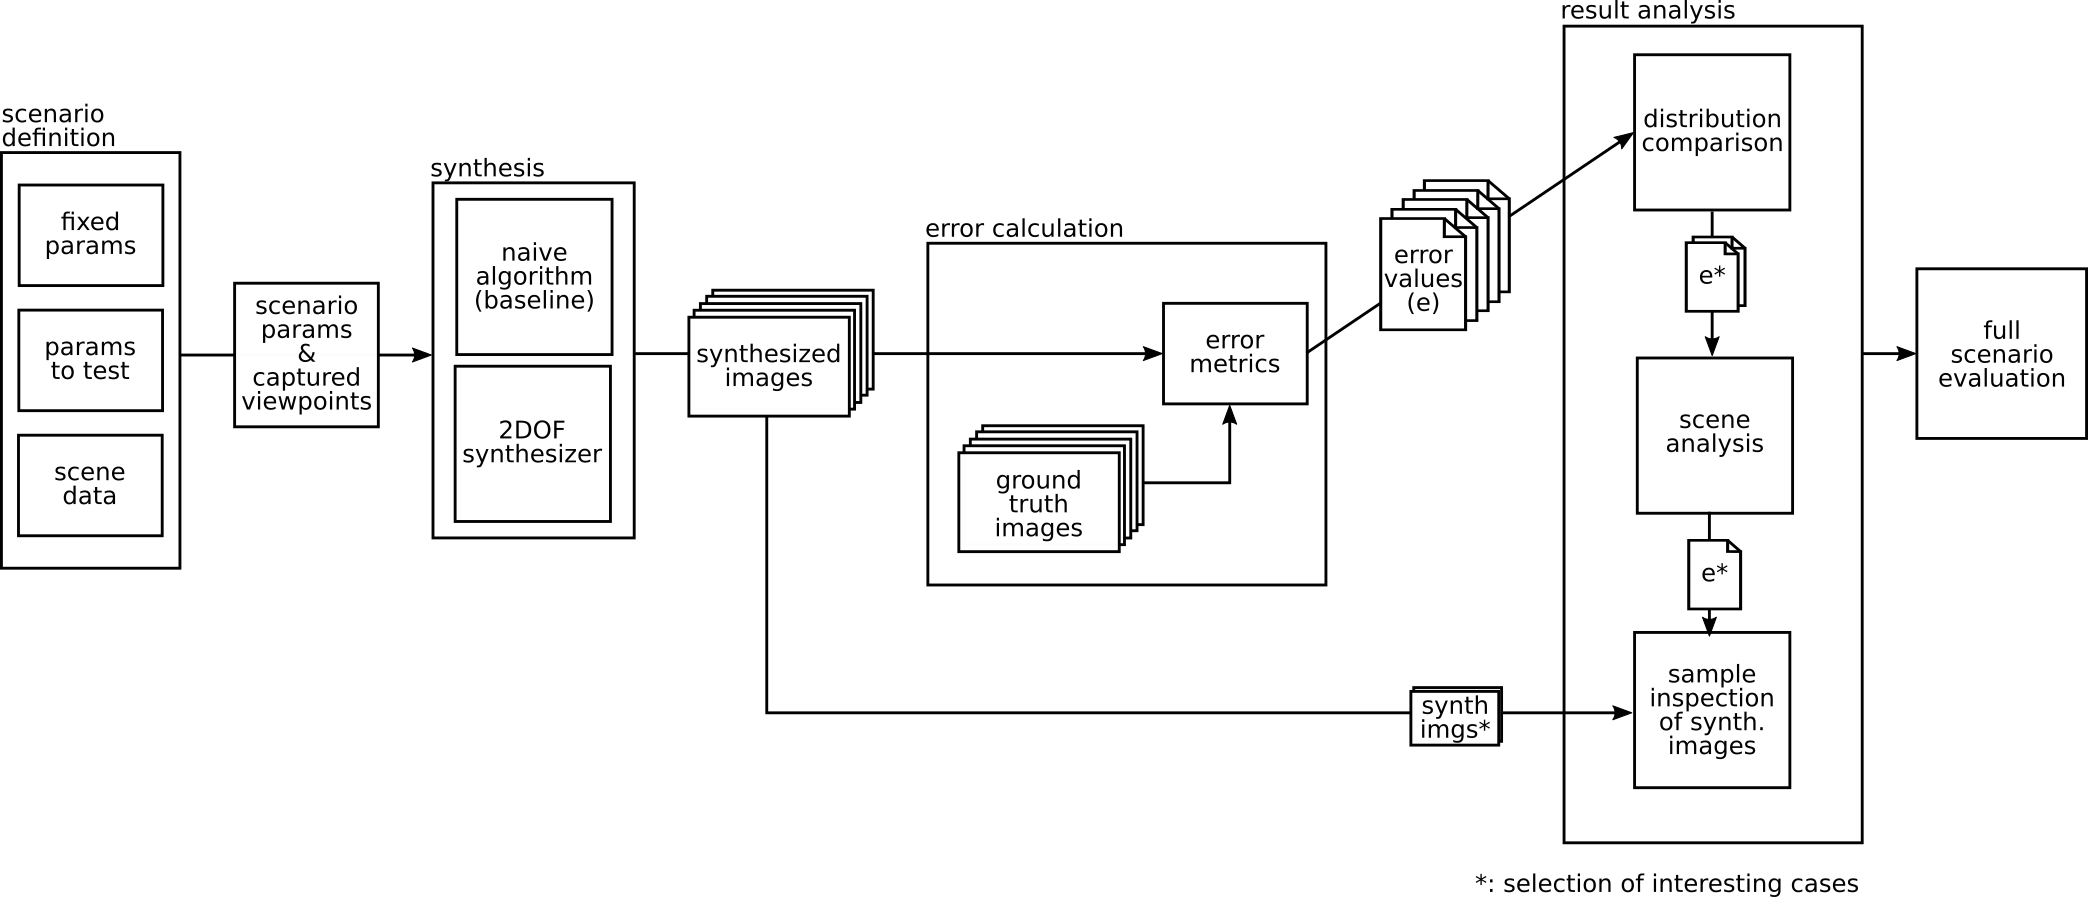
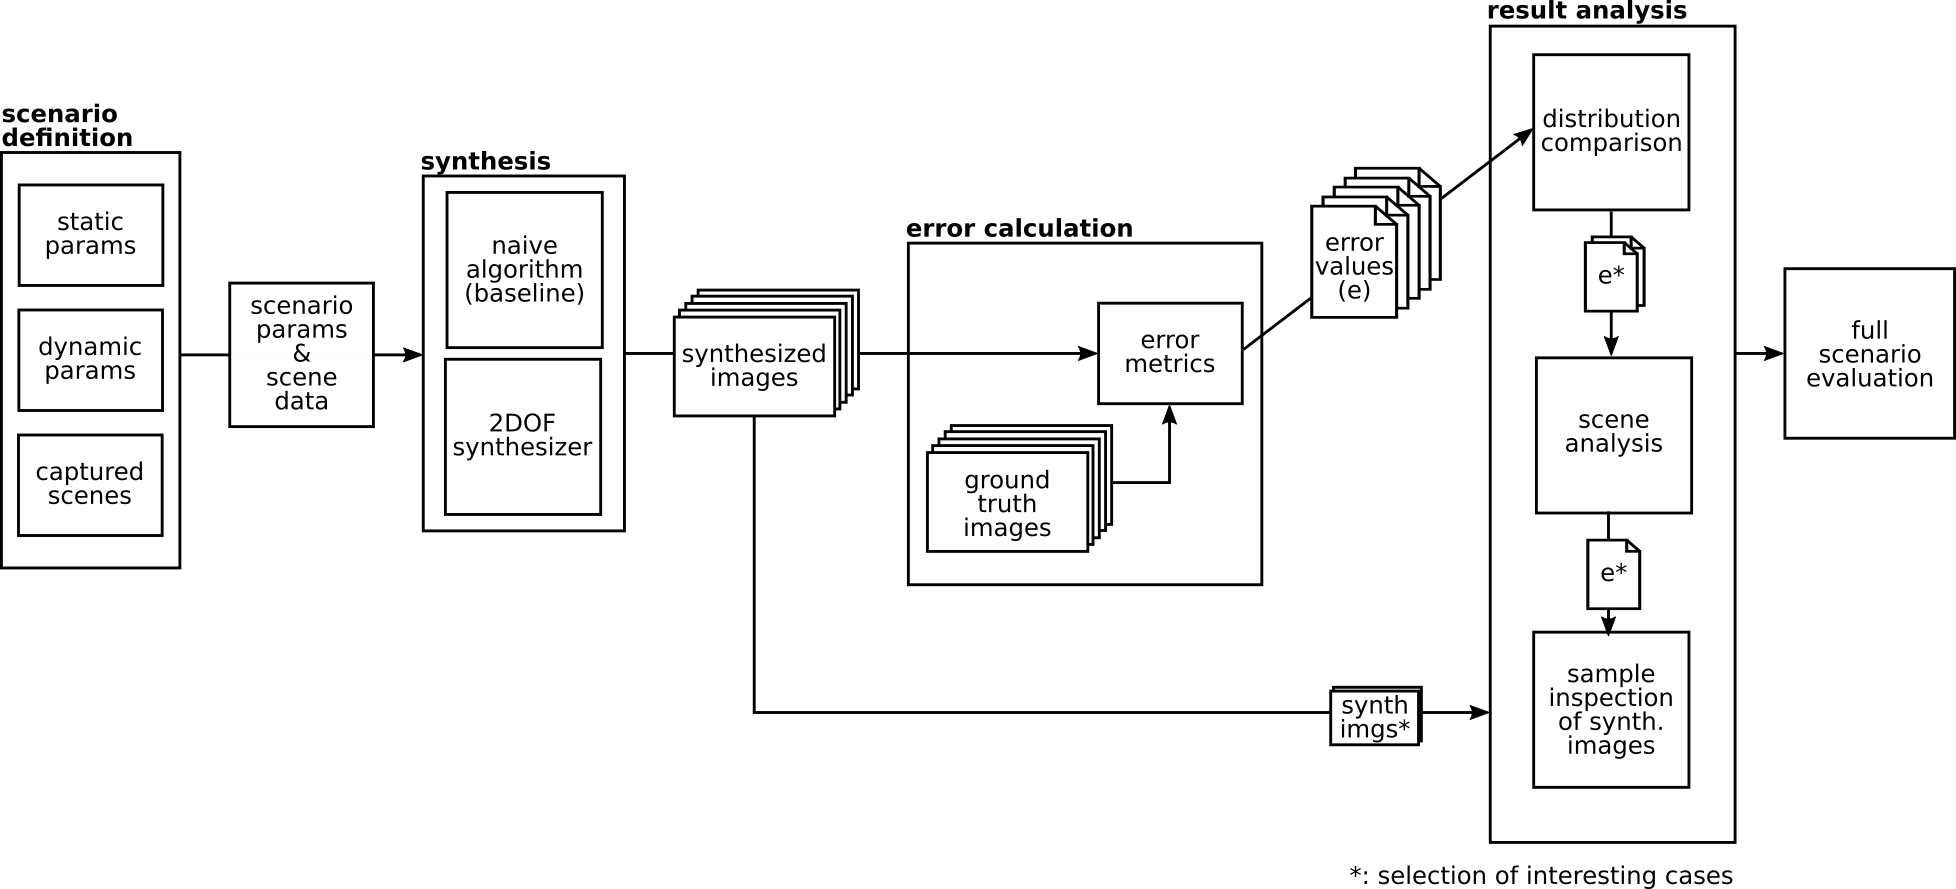
continue evaluation

Changed region(s): [[0.0, 0.0, 1.0, 1.0]]

diff --git a/04_evaluation.tex b/04_evaluation.tex
@@ -1,19 +1,14 @@
 \chapter{Evaluation and Results} \label{chap:evaluation}
 
+Unfortunately, there are no publicly available benchmarks for 360\degree image synthesis or image-based rendering for comparison with other methods. Instead, this chapter presents a basic evaluation of the algorithm presented in chapter~\ref{chap:implementation} that assesses the effects of different parameters by using mathematically calculable error metrics. Furthermore, it compares the results of regular blending, flow-based blending, and a naive baseline algorithm to analyze whether, and in which cases an improvement could be achieved.
 
-\begin{verbatim}
-- no publicly available benchmarks for 360\degree image synthesis / image based rendering available for comparison with other methods
-- scope: basic evaluation of mathematically measurable values (no human perception)
-- create virtual datasets to test the limits of the method
-- capture real datasets to perform a proof of concept
+First the evaluation methodology is presented, outlining how the effects of a parameter are measured and evaluated. Then, the limits of the algorithm are explored using virtual scenes. With the information gleaned from this limit evaluation, the parameters are chosen for a proof-of-concept evaluation using real scenes. The results and limitations are then discussed\ldots
 
-- these datasets could be used in the future to compare different algorithms
-- benchmark used will be nearest neighbor (naive algorithm)
-\end{verbatim}
+%- scope: basic evaluation of mathematically measurable values (no human perception)
+%- these datasets could be used in the future to compare different algorithms
 
 \section{Evaluation Methodology}
-In order to evaluate the effect of different parameters on the 2DoF synthesis algorithm developed in \ar scenarios, whether the
-The evaluation process of each scenario is divided into four phases: scenario definition, where the parameters to test in the scenario are selected, synthesis, where the synthesized images are calculated using the 2DoF synthesis presented in chapter~\ref{chap:implementation}, error calculation, where the accuracy of the synthesized images is measured, and result analysis, where the the cause and effect of the parameters is examined. 
+In order to evaluate the effect of different parameters on the 2DoF synthesis algorithm, it is necessary to define scenarios in which the evaluated parameter can be tested. The evaluation process of each scenario is divided into four phases: scenario definition, where the parameters to test in the scenario are selected, synthesis, where the synthesized images are calculated using the 2DoF synthesis presented in chapter~\ref{chap:implementation}, error calculation, where the accuracy of the synthesized images is measured, and result analysis, where the the cause and effect of the parameters is examined. The evaluation methodology is depicted in Figure~\ref{fig:eval-methodology}.
 
 \begin{figure}
 		\centering
@@ -31,7 +26,7 @@ The set of parameters (whether static or dynamic) contains the choice of scene i
 The synthesis step consists of two parts: the 2DoF synthesis presented in \ref{chap:implementation} using either flow-based blending or regular blending depending on the scenario parameters, and a baseline synthesis using a trivial algorithm. The results of the trivial algorithm serve as a baseline comparison to verify whether the developed 2DoF algorithm is an improvement to a naive approach. The trivial algorithm consists of simply selecting the nearest neighbor viewpoint based on euclidean distance. The input parameters are the same for both algorithms and both results are passed on to error calculation.
 
 \subsubsection{Error Calculation}
-In order to evaluate the synthesized images, it is necessary to define metrics with which to measure their accuracy. Since it is outside of the scope of this thesis to evaluate the quality of the results based on human perception, mathematical error metrics are used to compare each result to its ground truth image. Two different metrics are chosen based on different image features so that potential limitations of each metric can be compensated for by the other.
+In order to evaluate the synthesized images, it is necessary to define metrics with which to measure their accuracy. Since it is outside of the scope of this thesis to evaluate the quality of the results based on human perception, mathematical error metrics are used to compare each result to its ground truth image. Two different metrics are chosen based on different image features so that potential limitations of each metric can be compensated for by the other. However, it must be taken into account that neither are perfect for the task of measuring accuracy on 360\degree synthesized images, so their validity should always be taken with a grain of salt. 
 
 \paragraph{L1 error on RGB}
 The first metric is the L1 error calculated on the ground truth and result images in RGB color space. This is a simple error metric that calculates the mean absolute difference of the RGB values and therefore indicates the mean accuracy of each pixel of the image. The RGB errors of each pixel are added together for the complete image and then divided by the number of pixels in the image. This results in an error value $e \in [0,3]$, since the maximum error per pixel is 3 for floating point RGB color values $\in [0,1]$.
@@ -93,9 +88,38 @@ Based on the insights gained in the distribution comparison, several interesting
 \paragraph{Sample Inspection}
 In order to further understand the effects of the parameters on specific positions, some of the synthesised viewpoints from the scene analysis are examined manually by comparing the synthesized image to the ground truth image. The manual examination may also reveal information that the error metrics are unable to extract.
 
+\section{Parameters}
+Before defining the parameters to test in the limitation and proof-of-concept evaluations, this section gives an overview of possible parameters.
+The 2DoF approach already makes a number of assumptions (stated in section \ref{sec:approach} on page \pageref{sec:approach}), which are upheld in the evaluation. 
+
+There are two types of parameters that will be discussed: internal parameters (i.e. based within the algorithm), such as the blending type and the selection of input viewpoints, and external parameters (i.e. based on the properties of the captured scene), such as the viewpoint density, or the geometry of the scene. The internal parameters can be modified after capturing the scene, the external ones cannot. 
+
+The internal parameters based on the implementation from chapter~\ref{chap:implementation} are:
+\begin{itemize}
+  \item location of synthesized points in comparison to the scene
+  \item flow-based blending vs deviation-angle-based blending
+  \item selection of input viewpoints \ar two vs all within semi-large radius (all would be very computation intensive)
+  \item optical flow algorithm used for flow-based blending
+\end{itemize}
+
+There are more internal parameters that could theoretically be modified, such as the regular blending function (inverse sigmoid), or the method of approximation for 2DoF in flow-based blending, but these will be assumed as immutable for this evaluation, as this would be outside the scope of this thesis.
+
+As for the possible external parameters, the number of different possible scenes is infinite, but the assumed key parameters are:
+\begin{itemize}
+  \item type of scene (outdoor, indoor, etc) \ar size and shape of scene
+  \item objects within the scene
+  \item density of captured viewpoints (how many?)
+  \item distribution of captured viewpoints (where in the scene?)
+\end{itemize}
+limitations also here?
+limit to certain scenarios so that the explored space stays manageable
+
+optical flow:
+optical flow accuracy in relation to the scene size etc
+
 \section{Evaluation of Limits using Virtual Scenes}
 
-\subsection{Parameters}
+\subsection{Dynamic and Static Parameters}
 internal vs external parameters
 \begin{itemize}
   \item internal:
@@ -124,12 +148,13 @@ limitations also here?
 Checkersphere, square room, oblong room, (oblong room v2)
 
 \subsection{Synthesizing Ground Truth Optical Flow}
- only makes sense to compare if flow algorithm works more or less correctly \ar narrows the parameter space for comparison
-\begin{itemize}
-  \item optical flow ground truth is impossible to get from real scenes
-  \item however, virtual scenes contain all necessary information for retrieving ground truth for optical flow
-  \item virtual camera rig that captures one image per ``side'' with a fov that corresponds to that used in the ExtendedCubeMap \ar extended flow cube
-\end{itemize}
+As mentioned in section~\ref{subsec:optical_flow}, most optical flow algorithms struggle with large displacements. The flow-based blending algorithm used for the 2DoF synthesis, however, assumes perfect optical flow. As a result, there is no attempt to judge whether the optical flow calculation is feasible between two selected viewpoints, which means that given the wrong circumstances, the optical flow algorithm may fail, leading the flow-based blending to output undesirable results.
+
+However, the focus of this evaluation is the 2DoF synthesis algorithm and not the accuracy of an optical flow algorithm given different parameters. So, instead of calculating the optical flow on the virtually generated images, it is generated virtually along with the images. This ``ground truth'' optical flow was first presented by Butler et al.\ \cite{sintel} as a benchmark for optical flow algorithms but is used in this context to forego the optical flow calculation.
+
+%-optical flow ground truth is impossible to get from real scenes
+%-however, virtual scenes contain all necessary information for retrieving ground truth for optical flow
+%-virtual camera rig that captures one image per ``side'' with a fov that corresponds to that used in the ExtendedCubeMap \ar extended flow cube
 
 ``correctness'' of optical flow interpolation is limited even with ``perfect'' optical flow:
 \begin{itemize}

diff --git a/03_implementation.tex b/03_implementation.tex
@@ -6,7 +6,7 @@
 
 This chapter presents the assumptions and simplifications made for the pixel-based synthesis of 360\degree viewpoints, the basic approach and an improvement to the basic approach based on flow-based blending from Richardt et al.'s Megastereo \cite{megastereo}, and the implementation details of the method.
 
-\section{Approach}
+\section{Approach} \label{sec:approach}
 %\begin{itemize}
 %  \item most other approaches rely on either geometry or correspondences
 %  \item usually some form of triangulation
@@ -20,12 +20,12 @@ This chapter presents the assumptions and simplifications made for the pixel-bas
 \subsection{Assumptions and Simplifications}
 \todo{running text}
 \begin{itemize}
-  \item static scene
-  \item all images were captured on a plane parallel to the floor that is at that is at z=0 (viewpoint plane)
-  \item all synthesized viewpoints are located inside the scene boundaries and are also on the plane
-  \item all images are oriented the same
-  \item the positions of the captures are known
-  \item the scale (radius) of the scene is known
+  \item the scene is static
+  \item all images were captured on a plane parallel to the floor (viewpoint plane)
+  \item all synthesized viewpoints are located inside the scene boundaries and are also located on the viewpoint plane
+  \item the positions and orientations of the captures are known
+  \item the scale (max radius) of the scene is known
+  \item the optical flow gives a decent result for any distance
 \end{itemize}
 
 \subsection{Basic 2DoF Synthesis} \label{subsec:basic-synthesis}
@@ -114,7 +114,7 @@ In order to do this, several steps of raytracing are necessary, which are visual
 \subsubsection{Deviation-angle-based Mosaicking}
 The example in Figure~\ref{fig:raytracing} contains only one captured viewpoint, so the choice of which viewpoint to use for texture lookup is trivial. In cases where several viewpoints are available, a choice must be made as to which viewpoint should be used. In the case where the real scene has the same geometry as the model sphere, this is practically irrelevant, since the raytracing is always accurate. However, this is unrealistic, since the number of spherical rooms containing no objects is negligible. As a result, as soon as the real scene differs from the model sphere, some viewpoints yield better results than others. Figure~\ref{fig:dev_angle}a shows how a discrepancy between the real scene and the model sphere can lead to inaccurate results.
 
-When comparing rays from different viewpoints, two metrics can be examined: the euclidean distance of the captured viewpoint from the synthesized viewpoint, and the deviation angle between the rays. Figure~\ref{fig:dev_angle}b visualizes the two metrics and in the example, the $vp2$ with the smaller deviation angle is a better match. In fact, assuming that there is no obscuring element in the air such as fog, and disregarding diffusion and scattering over distance, the same light ray is captured by any viewpoint located on the ray in question. This means the closer the deviation angle is to zero, the more accurate the result will be, no matter the distance of the viewpoints. However, sampling rates and resolution also have an effect on the sampled point, so the euclidean distance cannot be completely ignored.
+When comparing rays from different viewpoints, two metrics can be examined: the euclidean distance of the captured viewpoint from the synthesized viewpoint, and the deviation angle between the rays. Figure~\ref{fig:dev_angle}b visualizes the two metrics and in the example, the $vp2$ with the smaller deviation angle is a better match. In fact, assuming that there is no obscuring element in the air such as fog, and disregarding diffusion and scattering over distance, the same light ray is captured by any viewpoint located on the ray in question. This means the closer the deviation angle is to zero, the more accurate the result will be, no matter the distance of the viewpoints. However, sampling rates and resolution also have an effect on the sampled point, so the euclidean distance cannot be completely ignored. \todo{put a third image in fig 3.2 to illustrate the deviation angle 0}
 
 Instead of combining these metrics in a function that might have to be weighted differently depending on the scene size, the distribution viewpoints, and more, the choice of which viewpoints to use is divided into two different steps: The choice of input viewpoints from all captured viewpoints for the synthesis of a specific point, and the choice of which of the input viewpoints to use for each ray of the synthesized point. 
 
